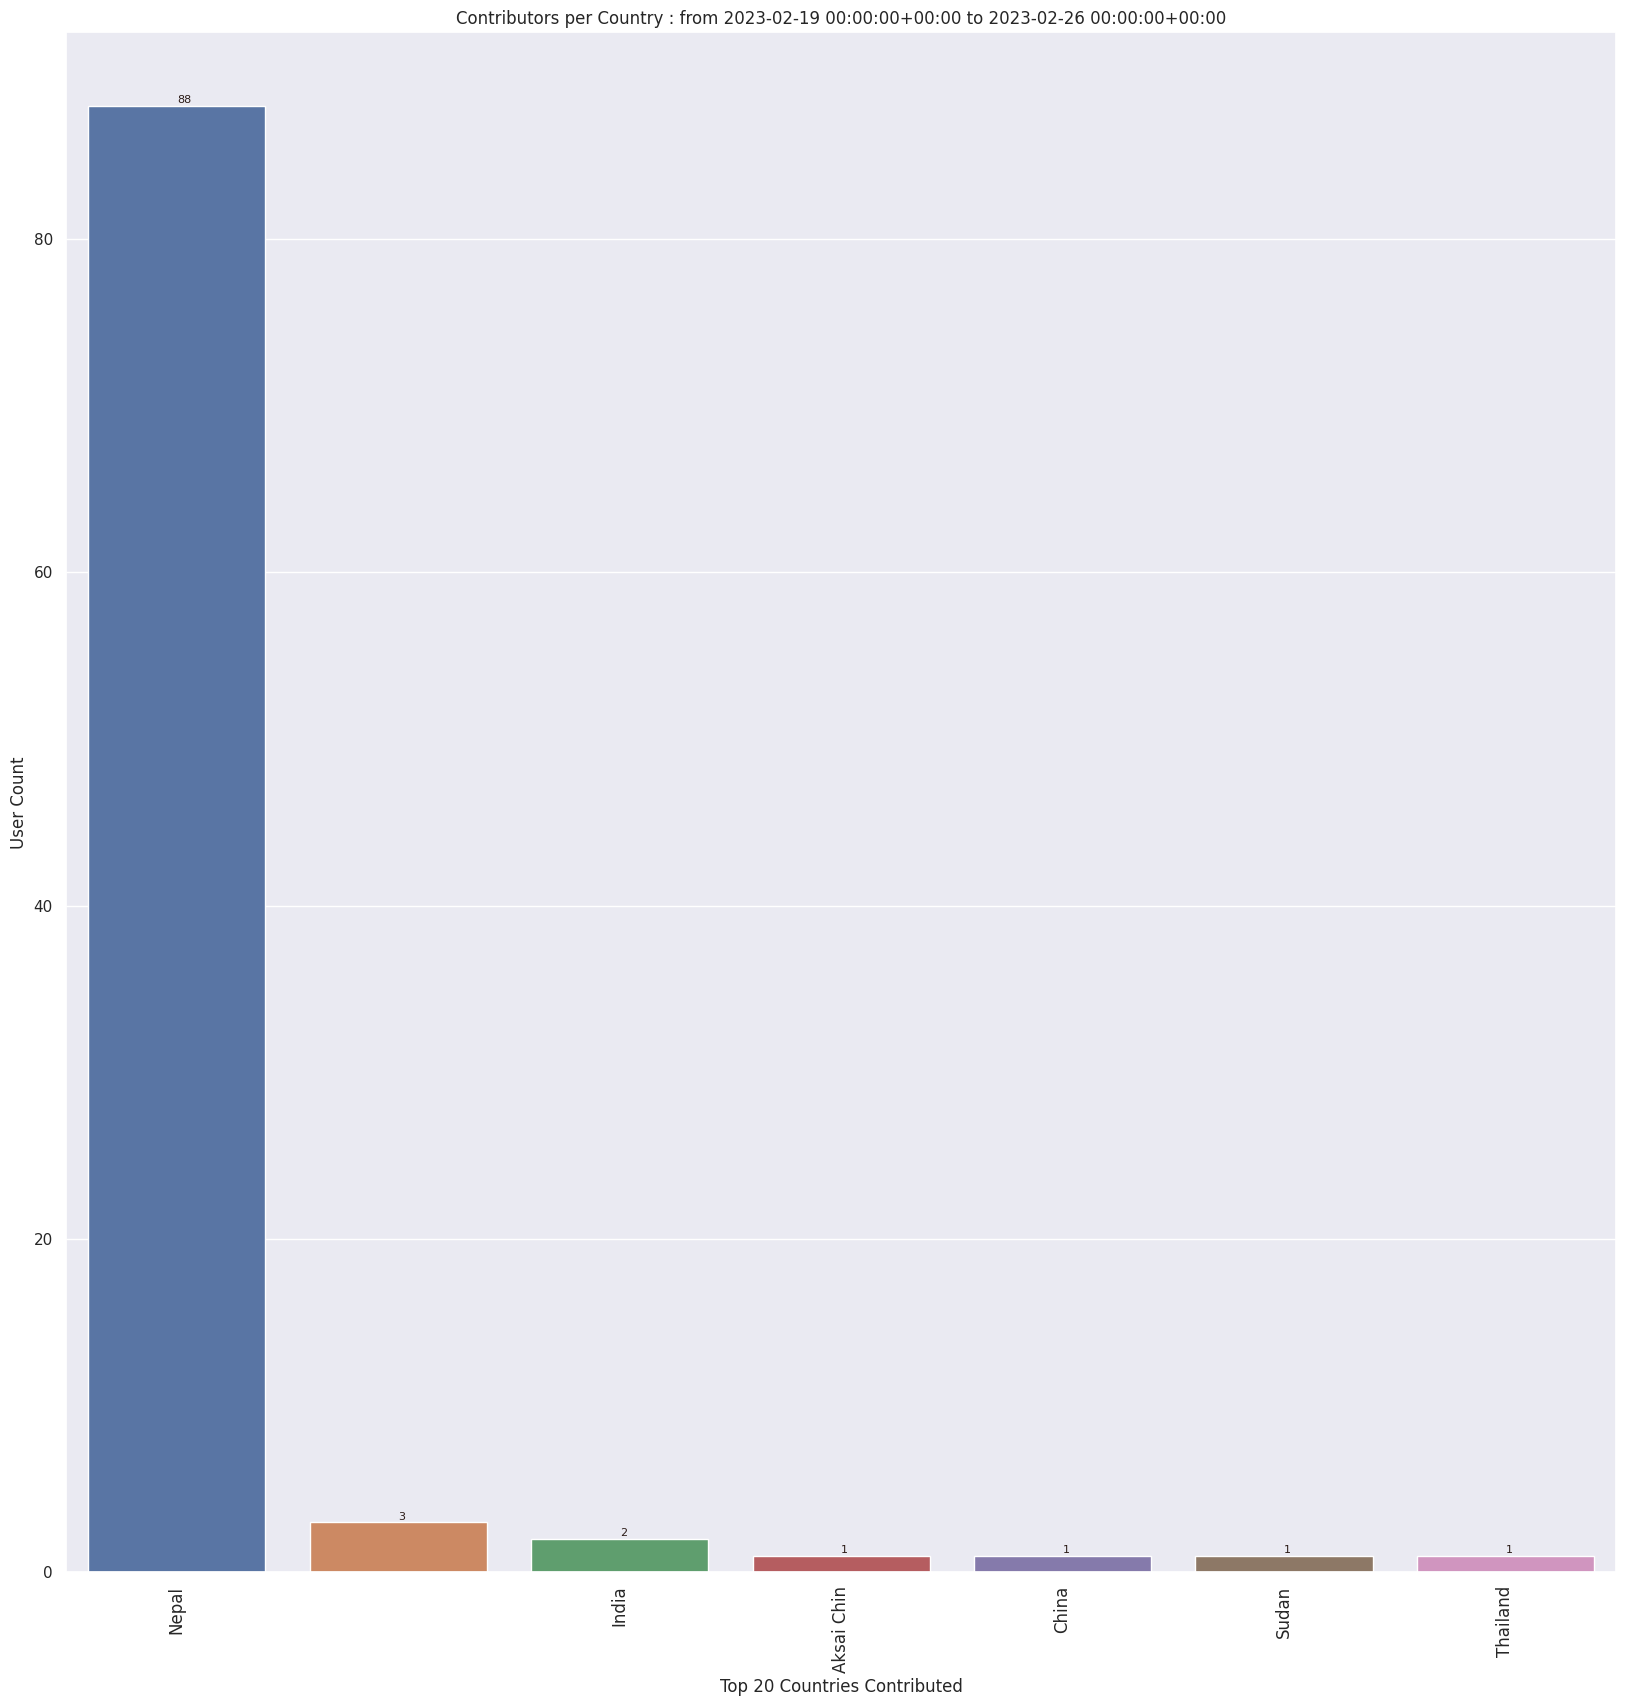
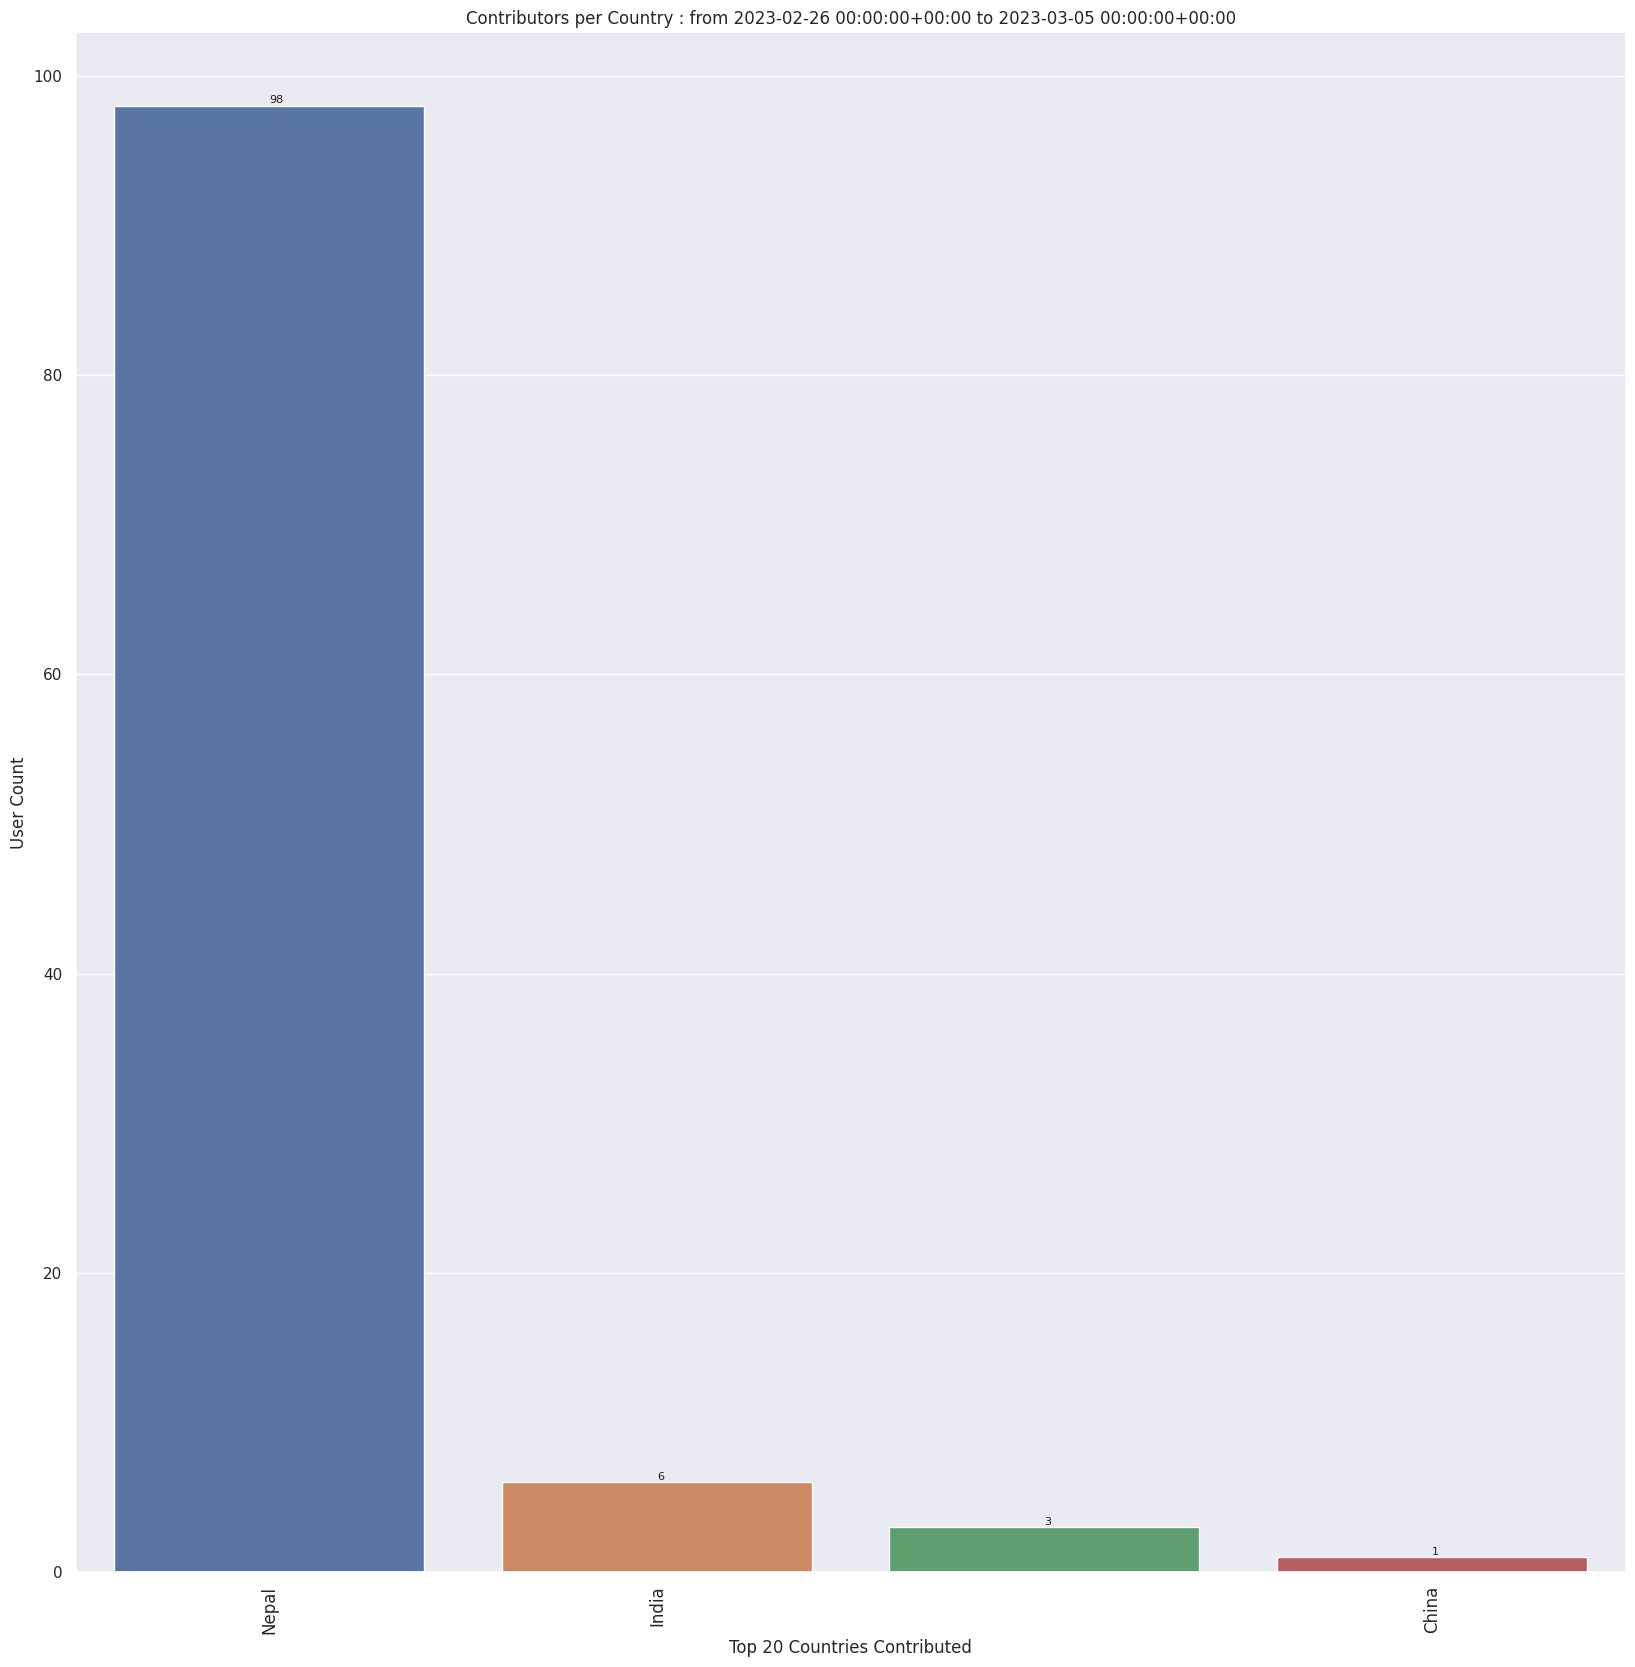
Updated Weekly Nepal Stats

Changed region(s): [[0.0, 0.0624, 0.984, 0.9982], [0.2768, 0.0, 0.7688, 0.0312]]

diff --git a/stats/Nepal/Weekly/README.md b/stats/Nepal/Weekly/README.md
@@ -1,55 +1,48 @@
-### Last Update : Stats from 2023-02-19 00:00:00+00:00 to 2023-02-26 00:00:00+00:00 (UTC Timezone)
+### Last Update : Stats from 2023-02-26 00:00:00+00:00 to 2023-03-05 00:00:00+00:00 (UTC Timezone)
 
-#### 96 Users made 932 changesets with 224.2 thousand map changes.
-#### 175.7 thousand OSM Elements were Created, 48.2 thousand Modified & 320 Deleted.
+#### 106 Users made 828 changesets with 93.2 thousand map changes.
+#### 70.2 thousand OSM Elements were Created, 22.8 thousand Modified & 252 Deleted.
 
 Top 5 Users are : 
-- Anil Basnet : 44.1 thousand Map Changes
-- marek kleciak : 36.6 thousand Map Changes
-- Lalit_IAAS : 36.1 thousand Map Changes
-- seichter : 22.9 thousand Map Changes
-- Nirmala Rawat : 17.0 thousand Map Changes
+- seichter : 14.0 thousand Map Changes
+- Lalit_IAAS : 11.9 thousand Map Changes
+- wzdxs : 10.1 thousand Map Changes
+- Nirmala Rawat : 7.7 thousand Map Changes
+- marek kleciak : 7.7 thousand Map Changes
 
 Summary of Supplied Tags
-- poi = Created: 258, Modified : 185
-- building = Created: 14.2 thousand, Modified : 583
-- highway = Created: 708, Modified : 1.4 thousand
-- waterway = Created: 51, Modified : 118
-- amenity = Created: 23, Modified : 87
+- poi = Created: 407, Modified : 233
+- building = Created: 9.7 thousand, Modified : 438
+- highway = Created: 279, Modified : 869
+- waterway = Created: 55, Modified : 184
+- amenity = Created: 75, Modified : 122
 
 
 Top 5 Created tags are :
-- building: 14.2 thousand
-- highway: 708
-- natural: 511
-- landuse: 329
-- name: 206
+- building: 9.7 thousand
+- highway: 279
+- landuse: 275
+- natural: 256
+- name: 154
 
 
 Top 5 Modified tags are :
-- highway: 1.4 thousand
-- building: 583
-- surface: 325
-- name: 312
-- natural: 208
+- highway: 869
+- building: 438
+- name: 297
+- surface: 223
+- waterway: 184
 
 
 Top 5 trending hashtags are:
-- #dmd : 14 users
-- #OSMNepal : 12 users
-- #hotosm-project-14310 : 11 users
-- #EPFL : 11 users
+- #maproulette : 9 users
+- #LineCrossingWaterBodyCheck : 9 users
+- #AtlasChecks : 9 users
+- #dmd : 9 users
 
 
 Top 5 trending Countries where user contributed are:
-- Nepal : 88 users
-- India : 2 users
-- Sudan : 1 users
+- Nepal : 98 users
+- India : 6 users
 - China : 1 users
 
-
- Charts : 
-![Alt text](./charts/osm_changes.png) 
-![Alt text](./charts/users_per_hashtag.png) 
-![Alt text](./charts/users_per_country.png) 
-![Alt text](./charts/tags.png) 
